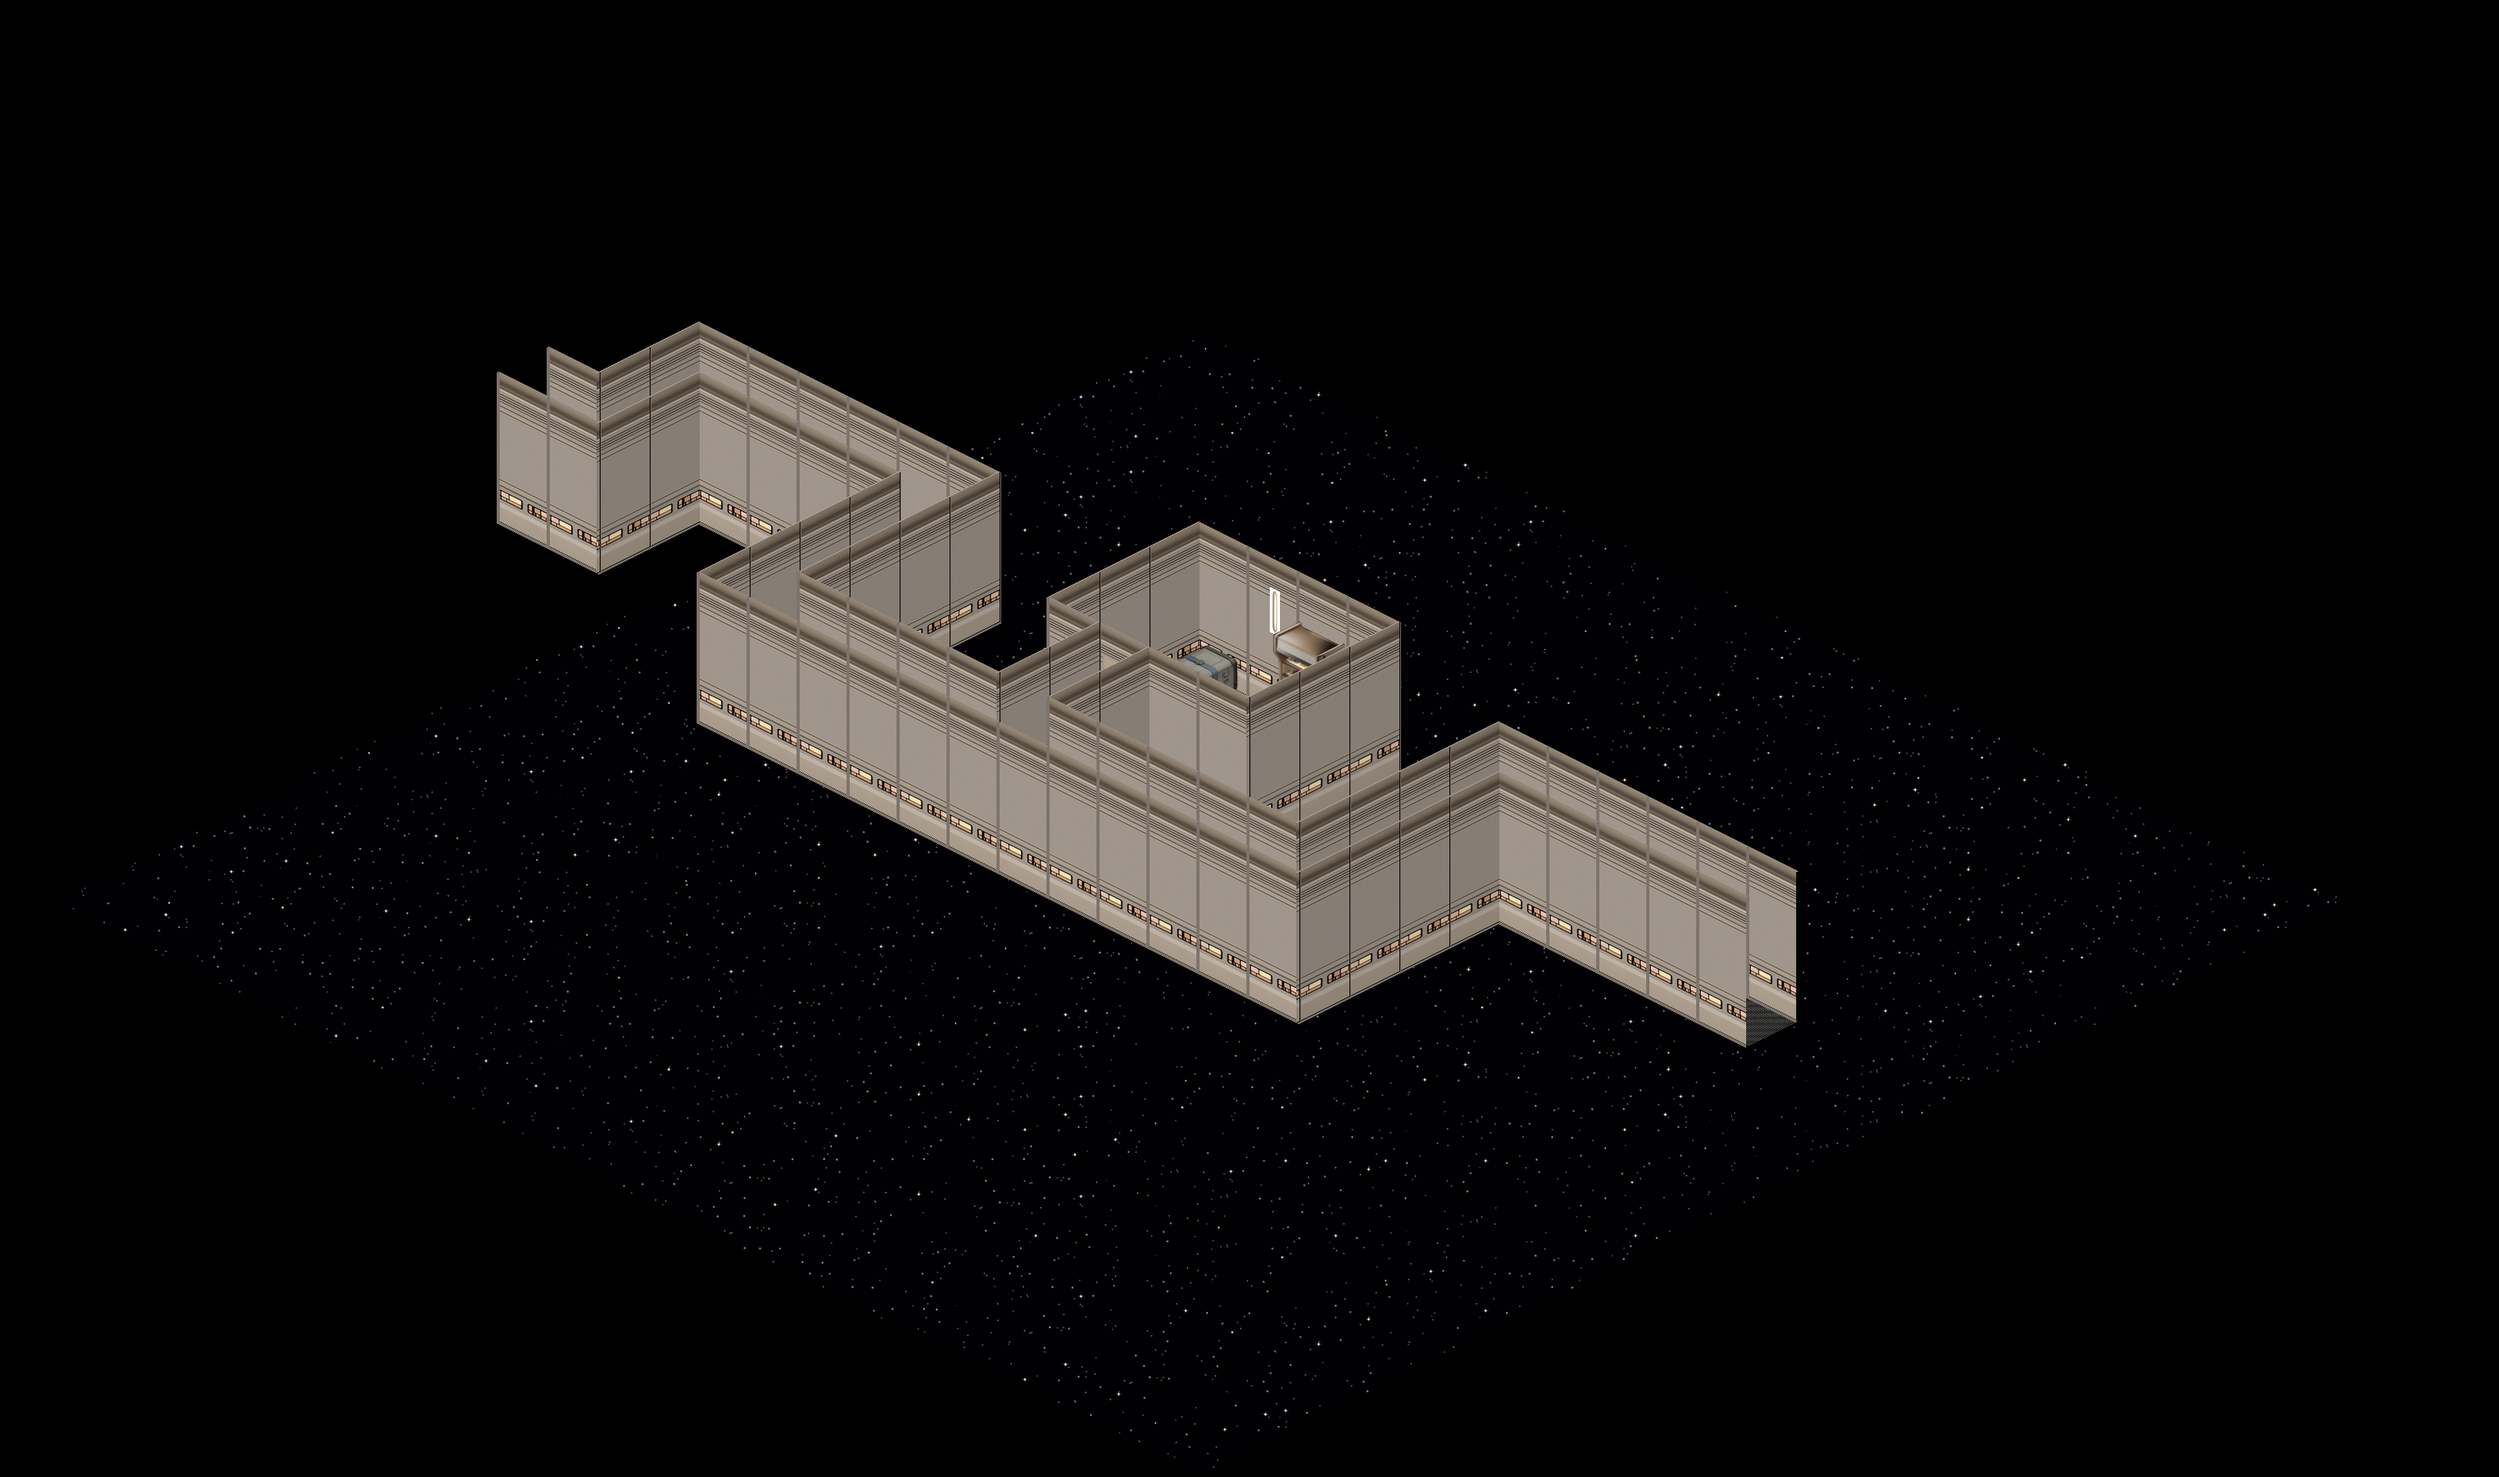
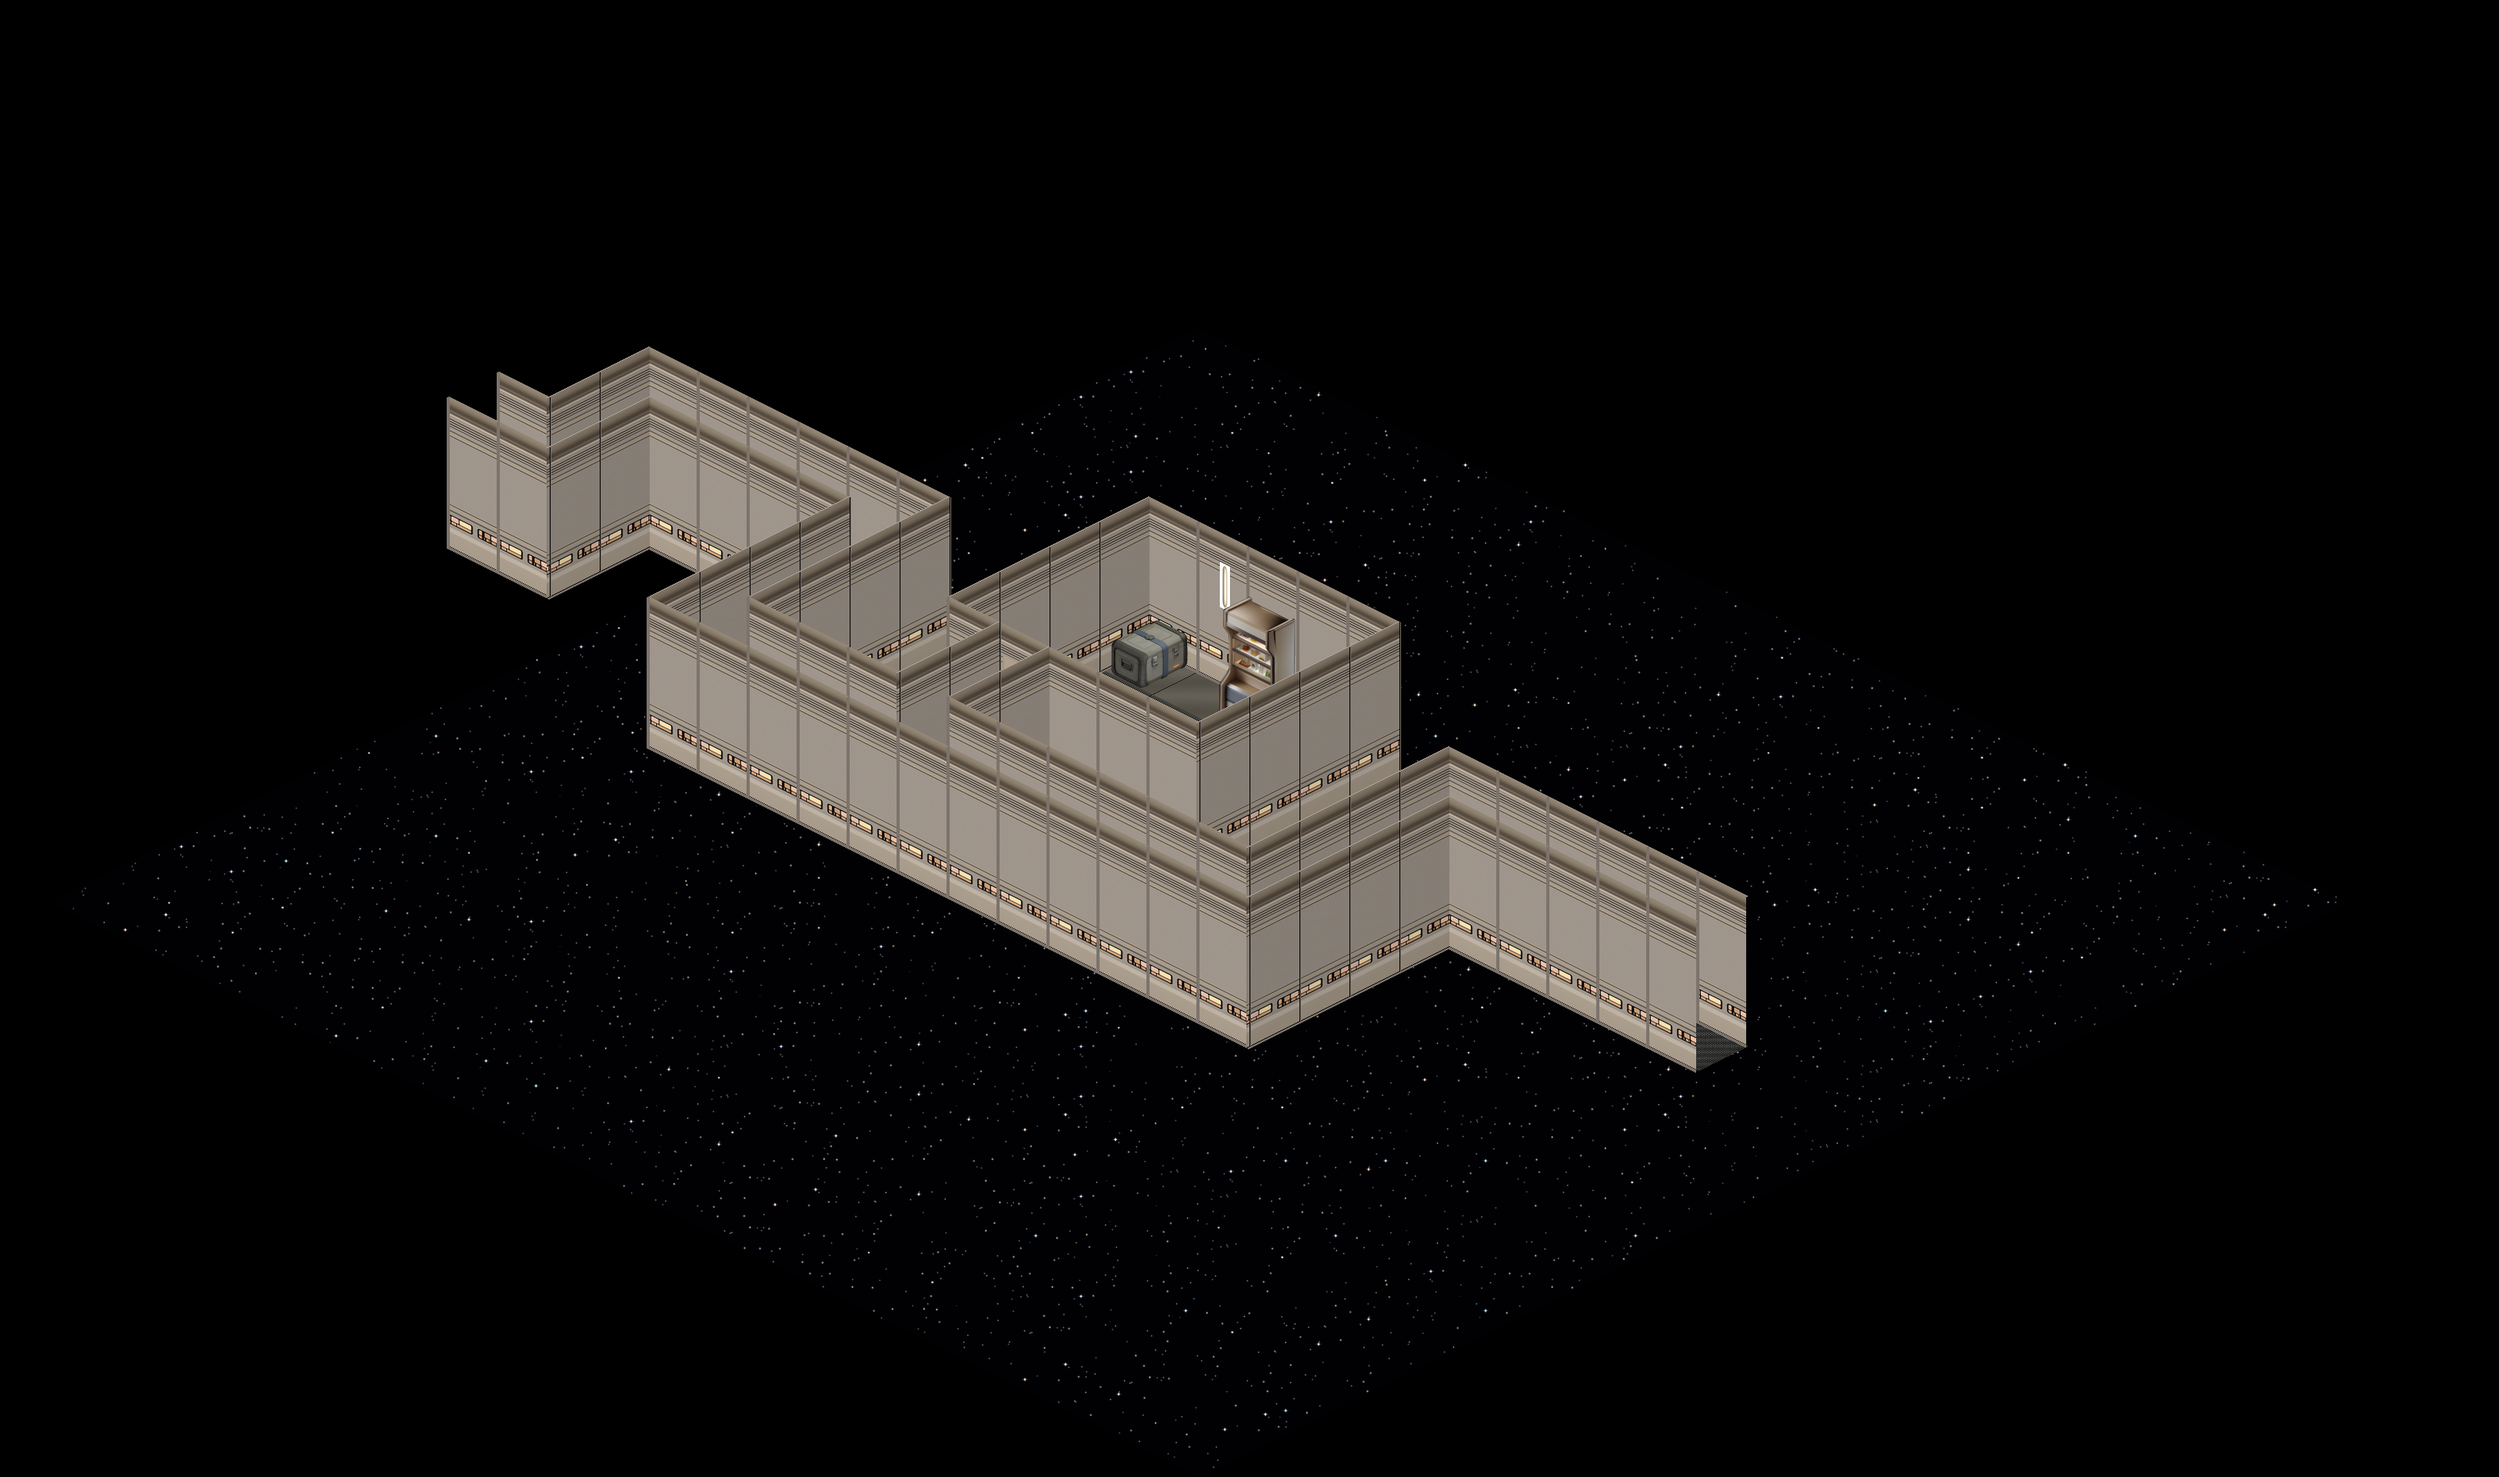
Hideouts five by four: an aisle along the stash wall, the table and chairs a row forward; test_assets walks every hideout from its hatch to each crate

Changed region(s): [[0.1562, 0.2183, 0.5312, 0.7172], [0.5625, 0.4678, 0.7188, 0.7172]]

diff --git a/tools/gen_adirondack_tubes.py b/tools/gen_adirondack_tubes.py
@@ -98,8 +98,8 @@ def hideout_site(path, n):
     sites = []
     for i in range(len(path) // 5, len(path) - 8):
         x, y = path[i]
-        cols = [p for p in path if x - 3 <= p[0] <= x + 4]
-        if cols and all(p[1] == y for p in cols) and y <= BAND[1] and len(cols) == 8:
+        cols = [p for p in path if x - 3 <= p[0] <= x + 5]
+        if cols and all(p[1] == y for p in cols) and y <= BAND[1] and len(cols) == 9:
             sites.append(i)
     if not sites:
         raise SystemExit("tube %d has no straight run long enough for a hideout" % n)
@@ -115,8 +115,13 @@ def hideout(path, i, index):
     """The side crawl, the room, its fittings and what was left lying about."""
     x, y = path[i]
     branch = [(x, y - 1), (x, y - 2)]
-    x0, y0 = x - 1, y - 5
-    room = [(x0 + dx, y0 + dy) for dy in range(3) for dx in range(4)]
+    # Five across and four deep, from the back wall: the stash along the wall,
+    # an aisle in front of it -- every crate and the shelf can be walked up to,
+    # which the first, three-deep room did not allow (the chairs stood in the
+    # only row in front of them) -- then the table between its two chairs,
+    # then the row the hatch opens onto.
+    x0, y0 = x - 1, y - 6
+    room = [(x0 + dx, y0 + dy) for dy in range(4) for dx in range(5)]
     fittings = []
 
     def put(name, facing, px, py, stash=None):
@@ -125,18 +130,18 @@ def hideout(path, i, index):
             fittings.append((px + dx, py + dy, s, stash or name, kind))
 
     put("cargo_crate", "W", x0, y0, "stash_crate")
-    put("bottle_shelf", "N", x0 + 2, y0, "stash_shelf")
-    put("cargo_crate", "E", x0 + 3, y0, "stash_crate")
-    put("lounge_table", "W", x0 + 2, y0 + 1)
-    put("lounge_chair", "W", x0 + 1, y0 + 1)
-    put("lounge_chair", "E", x0 + 3, y0 + 1)
     put("wall_sconce", "N", x0 + 1, y0)
+    put("bottle_shelf", "N", x0 + 2, y0, "stash_shelf")
+    put("cargo_crate", "E", x0 + 4, y0, "stash_crate")
+    put("lounge_chair", "W", x0 + 1, y0 + 2)
+    put("lounge_table", "W", x0 + 2, y0 + 2)
+    put("lounge_chair", "E", x0 + 3, y0 + 2)
     # What the night watch left: bottles and cans on the deck, the cards on
     # the table. Placed once, as world items (TREK_AdirondackServer).
-    clutter = [(x0, y0 + 1, "Base.BeerEmpty"), (x0, y0 + 2, "Base.BeerEmpty"),
-               (x0 + 3, y0 + 2, "Base.BeerCanEmpty"), (x0 + 2, y0 + 2, "Base.BeerEmpty"),
-               (x0 + 2, y0 + 1, "Base.CardDeck"), (x0 + 2, y0 + 1, "Base.PokerChips"),
-               (x0 + 1, y0 + 2, "Base.BeerCanEmpty"), (x0 + 3, y0 + 1, "Base.BeerEmpty")]
+    clutter = [(x0, y0 + 2, "Base.BeerEmpty"), (x0, y0 + 3, "Base.BeerEmpty"),
+               (x0 + 4, y0 + 3, "Base.BeerCanEmpty"), (x0 + 3, y0 + 1, "Base.BeerEmpty"),
+               (x0 + 2, y0 + 2, "Base.CardDeck"), (x0 + 2, y0 + 2, "Base.PokerChips"),
+               (x0 + 2, y0 + 3, "Base.BeerCanEmpty"), (x0 + 4, y0 + 2, "Base.BeerEmpty")]
     return dict(branch=branch, room=room, door=(x, y - 2), fittings=fittings, clutter=clutter)
 
 

diff --git a/tests/test_assets.py b/tests/test_assets.py
@@ -1106,6 +1106,34 @@ try:
 except SystemExit as e:
     failures.append("gen_adirondack_tubes.check refused a sound tube: %s" % e)
 
+# --- a hideout can be walked round ---------------------------------------
+# From its hatch, over squares with no furniture standing on them, somebody
+# has to be able to reach a square beside every crate and the shelf. The
+# first hideout was three deep, and the chairs stood in the only row in front
+# of the stash: found in play, not by any check.
+_index = json.load(open(os.path.join(ROOT, "design", "tiles", "trek_adirondack_02.json")))
+for _n in TUBES.HIDEOUTS:
+    _path = TUBES.route(_n, 20, 25, TUBES.DECK_PITCH)
+    _h = TUBES.hideout(_path, TUBES.hideout_site(_path, _n), _index)
+    _room = set(_h["room"])
+    _blocked = set()
+    for x, y, _s, what, _k in _h["fittings"]:
+        base = {"stash_crate": "cargo_crate", "stash_shelf": "bottle_shelf"}.get(what, what)
+        if _index[base]["layer"] != "WallFurniture":
+            _blocked.add((x, y))
+    _start = (_h["door"][0], _h["door"][1] - 1)
+    _seen, _todo = {_start}, [_start]
+    while _todo:
+        cx, cy = _todo.pop()
+        for q in ((cx + 1, cy), (cx - 1, cy), (cx, cy + 1), (cx, cy - 1)):
+            if q in _room and q not in _blocked and q not in _seen:
+                _seen.add(q)
+                _todo.append(q)
+    for x, y, _s, what, _k in _h["fittings"]:
+        if what.startswith("stash"):
+            if not any(q in _seen for q in ((x + 1, y), (x - 1, y), (x, y + 1), (x, y - 1))):
+                failures.append(f"hideout off tube {_n + 1}: nobody can get to the {what} at {x},{y}")
+
 # --- the loot tables the crystal is seeded into -------------------------
 # server/Items/TrekDilithium.lua names vanilla distribution tables by string.
 # A name that was right in build 41 and renamed since does not throw and does

diff --git a/JEFFERIES.md b/JEFFERIES.md
@@ -23,10 +23,13 @@ is how the ship is put together; this file is the part of her you crawl.
   no running. Out of it you stand up, and you are sneaking only if you were
   when you went in.
 - **Three hideouts**, off tubes 1-2, 3-4 and 4-5: a two-square side crawl, a
-  hatch, and a small room where the off-watch crew drink. Two crates and a
-  shelf of the good stuff (Romulan ale, whiskey, bloodwine...), a table, two
-  chairs, a light, and the empties and the cards they left lying about. You
-  stand up in a hideout.
+  hatch, and a room five across and four deep where the off-watch crew
+  drink. Two crates and a shelf of the good stuff (Romulan ale, whiskey,
+  bloodwine...) along the back wall with an aisle in front of them, a table
+  and two chairs, a light, and the empties and the cards they left lying
+  about. You stand up in a hideout. (The first one was three deep and the
+  chairs stood in the only row in front of the stash; `tests/test_assets.py`
+  now walks every hideout from its hatch to every crate.)
 - **Turbolift Phobia**, a negative trait (+2 points): every lift ride is
   instant dread -- stress, panic and misery -- and the lift's menu says so
   before you choose. The tubes cost the phobic nothing.
